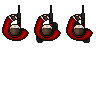
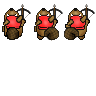
-beaver graphics -arrow graphic -improved selectionCircle -new tile graphics

Changed region(s): [[0.3438, 0.0312, 1.0, 0.4688], [0.0, 0.0312, 0.3438, 0.4375]]

diff --git a/app/src/org/beavers/ingame/Shot.java b/app/src/org/beavers/ingame/Shot.java
@@ -80,36 +80,38 @@ public class Shot implements IMovableObject {
 		}
 	}
 
-   Tile target;
+  
    float delay=(float) (0.1+Math.random()*0.4);
    TimerHandler shootTimer;
    Sprite currentShot;
    int damage=0;
+   Soldier target;
 	
    public void fire(final Soldier targetSoldier){
+	   target=targetSoldier;
 		final Tile pTarget=targetSoldier.getTile();
 		shootTimer = new TimerHandler(delay,new ITimerCallback() {
 
 			@Override
 			public void onTimePassed(final TimerHandler pTimerHandler) {
 				
-				target=pTarget;
+				
 
 				//Bullets
 				final Sprite shot = new Sprite(soldier.convertLocalToSceneCoordinates(soldier.getWidth()/2+5, soldier.getHeight()/2-18)[0], soldier.convertLocalToSceneCoordinates(soldier.getWidth()/2+5, soldier.getHeight()/2-18)[1], Textures.SHOT_BULLET.deepCopy());
 				currentShot=shot;
-				final float[] s=soldier.convertLocalToSceneCoordinates(soldier.getWidth()/2+3, soldier.getHeight()/2-32);
+				final float[] s=soldier.convertLocalToSceneCoordinates(soldier.getWidth()/2+6, soldier.getHeight()/2-32);
 				shot.setPosition(s[0]-shot.getWidth()/2,s[1]-shot.getHeight()/2);
 				shot.setRotationCenter(shot.getWidth()/2, shot.getHeight()/2);
 				shot.setRotation(soldier.getRotation()-270);
 				activity.getMainScene().attachChild(shot);
 				shot.setAlpha(0.5f);
-
+				/*
 				//muzzleflash
 				final Sprite flash= new Sprite(0, 0, Textures.MUZZLE_FLASH.deepCopy());
 				flash.setPosition(soldier.getWidth()/2,soldier.getHeight()/2-31);
 				soldier.attachChild(flash);
-				
+				*/
 			
 				
 				final float distx=Math.abs(shot.getX() - targetSoldier.getCenter()[0]);
@@ -141,12 +143,14 @@ public class Shot implements IMovableObject {
 							damage+=baseDamage;
 							
 							if(!targetSoldier.isDead()){
-								targetSoldier.changeHP(-damage);
-								damage=0;
+								if(findPath(activity.getPathFinder(),targetSoldier.getTile())!=null){
+									targetSoldier.changeHP(-damage);
+									damage=0;
 								
-								//target soldier defends himself
-								if(!targetSoldier.isShooting() && !targetSoldier.isDead()) {
-									targetSoldier.fireShot(soldier, activity);
+									//target soldier defends himself
+									if(!targetSoldier.isShooting() && !targetSoldier.isDead()) {
+										targetSoldier.fireShot(soldier, activity);
+									}
 								}
 							}
 
@@ -159,7 +163,7 @@ public class Shot implements IMovableObject {
 					});
 					
 					shot.registerEntityModifier(moveMod);
-					spriteExpire(flash);
+					//spriteExpire(flash);
 					
 					delay=(float) (0.1+Math.random()*0.4);
 					shootTimer.setTimerSeconds(delay);
@@ -169,6 +173,10 @@ public class Shot implements IMovableObject {
 		activity.getEngine().registerUpdateHandler(shootTimer);
 		
 	}
+   
+ public Soldier getTarget(){
+	 return target;
+ }
    
  public void stopShooting(){
 

diff --git a/app/src/org/beavers/ingame/Soldier.java b/app/src/org/beavers/ingame/Soldier.java
@@ -500,10 +500,10 @@ public class Soldier extends AnimatedSprite implements IGameObject, IMovableObje
 			final TextureRegion selectionTexture =
 				Textures.SOLDIER_SELECTION_CIRCLE.deepCopy();
 			selectionMark = new Sprite(
-				getWidth()/2 - selectionTexture.getWidth()/2,
-				getHeight()/2 - selectionTexture.getHeight()/2 + 5,
+				getWidth()/2 - selectionTexture.getWidth()/2-1,
+				getHeight()/2 - selectionTexture.getHeight()/2-1,
 				selectionTexture);
-
+			
 			waypoints = new ArrayDeque<WayPoint>();
 
 			firstWaypoint = new WayPoint(this, null, pTile);
